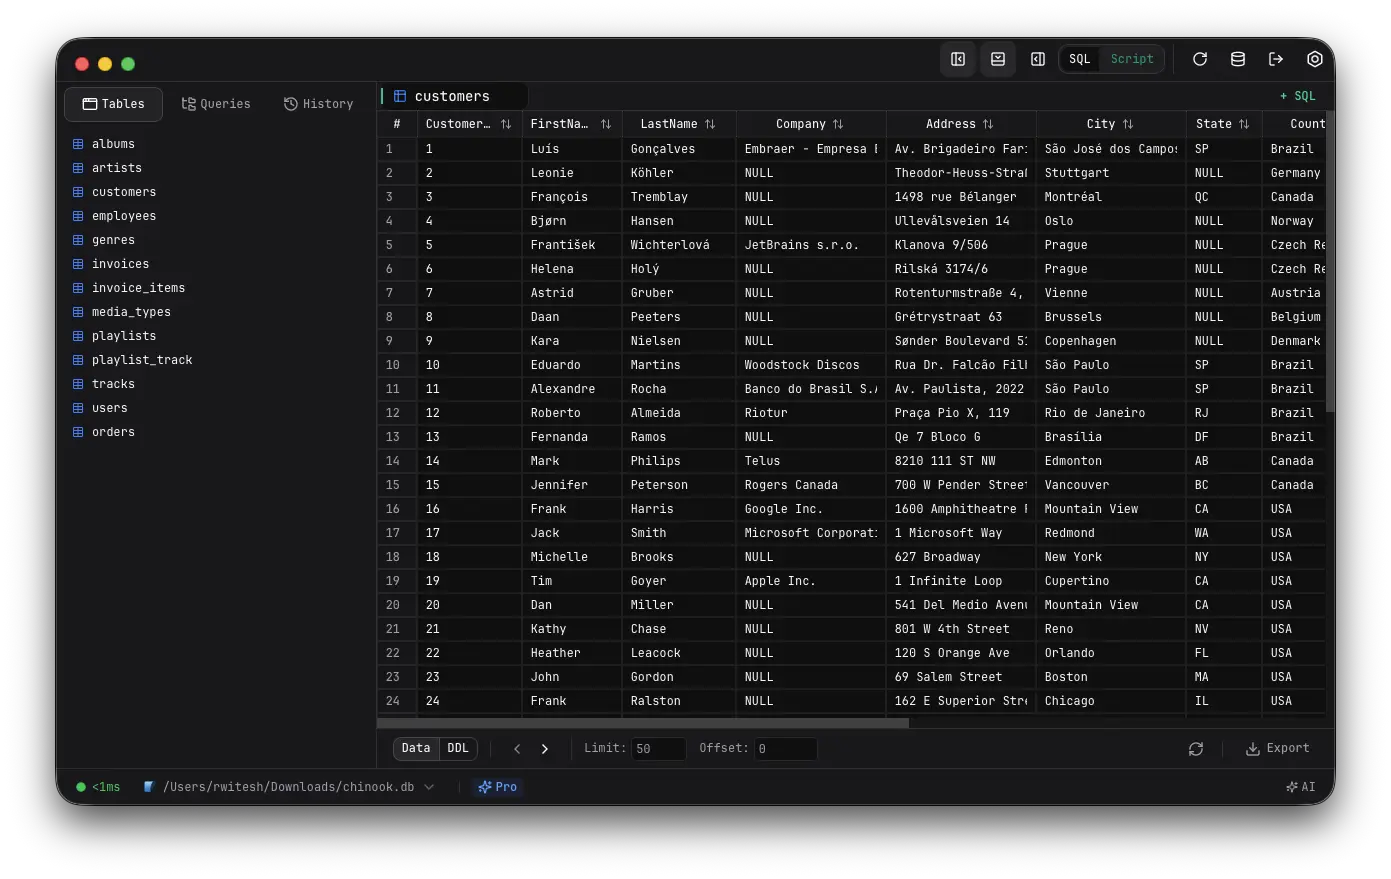
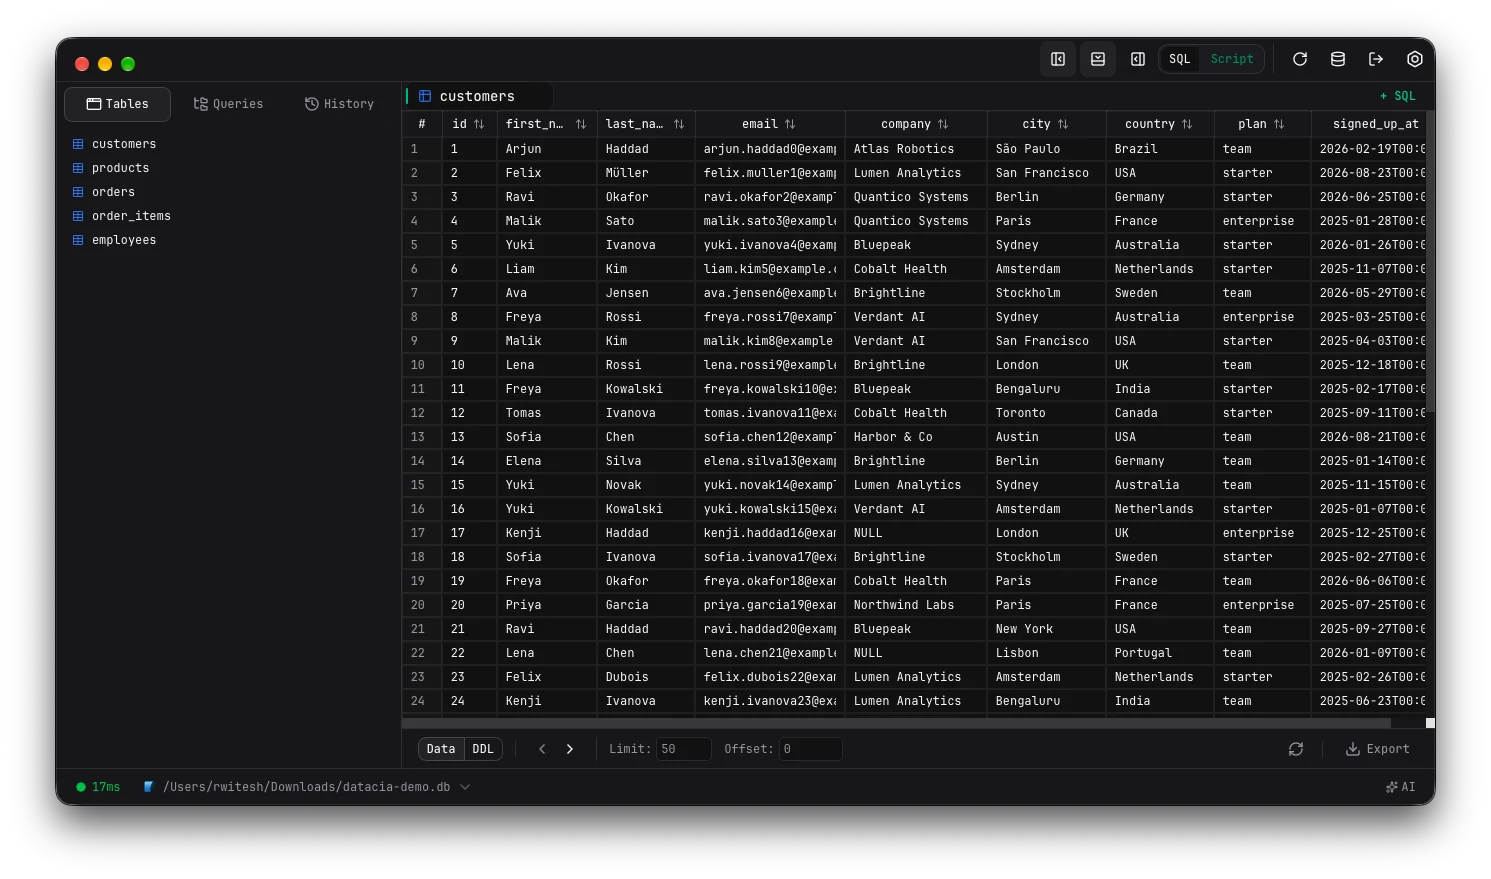
Use demo-database screenshots and tidy code
- Hero: matching dark and light captures with an animated appearance switch
- Feature story: full-window editor and JSON row-inspector shots, plus a
  dark/light pair for the copy and export menu; wider visual column
- Remove the unused Button component, link variant and unused site links
- Share a typed ReleaseStatus; enable noUnusedLocals/Parameters

diff --git a/src/components/home/feature-story.tsx b/src/components/home/feature-story.tsx
@@ -1,7 +1,9 @@
 import { useEffect, useRef, useState, type ReactNode } from "react";
 import { AnimatePresence, motion, useInView } from "motion/react";
 import { Sparkles } from "lucide-react";
+import exportLightImg from "@/assets/export-light.webp";
 import exportImg from "@/assets/export.webp";
+import jsonImg from "@/assets/json.webp";
 import queryImg from "@/assets/query.webp";
 import scriptImg from "@/assets/script.webp";
 import { EASE_APPLE, Reveal } from "@/components/motion/reveal";
@@ -9,10 +11,51 @@ import { Container } from "@/components/ui/container";
 import { SectionHeading } from "@/components/ui/section-heading";
 import { cn } from "@/lib/utils";
 
-function Screenshot({ src, alt, width, height }: { src: string; alt: string; width: number; height: number }) {
+interface ShotProps {
+  src: string;
+  alt: string;
+  width: number;
+  height: number;
+  className?: string;
+}
+
+/** A full macOS window capture; it already carries its own frame and shadow. */
+function WindowShot({ src, alt, width, height }: ShotProps) {
+  return <img src={src} alt={alt} width={width} height={height} className="w-full" loading="lazy" />;
+}
+
+/** A cropped panel, framed to sit alongside the window captures. */
+function PanelShot({ src, alt, width, height, className }: ShotProps) {
   return (
-    <div className="rounded-2xl border border-line-strong bg-surface p-1.5 shadow-[0_30px_80px_-30px_rgba(0,0,0,0.8)]">
+    <div
+      className={cn(
+        "rounded-2xl border border-line-strong bg-surface p-1.5 shadow-[0_30px_80px_-30px_rgba(0,0,0,0.8)]",
+        className,
+      )}
+    >
       <img src={src} alt={alt} width={width} height={height} className="w-full rounded-[12px]" loading="lazy" />
+    </div>
+  );
+}
+
+/** The export menu in both themes, stacked so the pair overlaps diagonally. */
+function ExportPair() {
+  return (
+    <div className="mx-auto grid max-w-2xl">
+      <PanelShot
+        src={exportLightImg}
+        alt="Export menu in light mode"
+        width={593}
+        height={361}
+        className="w-4/5 self-start justify-self-end [grid-area:1/1]"
+      />
+      <PanelShot
+        src={exportImg}
+        alt="Selected rows with the copy and export menu open in dark mode"
+        width={593}
+        height={361}
+        className="mt-[22%] w-4/5 self-start justify-self-start [grid-area:1/1]"
+      />
     </div>
   );
 }
@@ -53,19 +96,32 @@ const CHAPTERS: Chapter[] = [
     eyebrow: "SQL editor",
     title: "Write. Format. Run.",
     body: "Syntax highlighting, autocomplete that knows your tables, one-key formatting and instant execution. Everything stays out of your way until you need it.",
-    visual: <Screenshot src={queryImg} alt="SQL editor with a formatted query" width={599} height={339} />,
+    visual: (
+      <WindowShot
+        src={queryImg}
+        alt="SQL editor with a JOIN query and its results below"
+        width={1391}
+        height={879}
+      />
+    ),
   },
   {
     eyebrow: "Script mode",
     title: "Whole migrations, one click.",
     body: "Break a script into blocks and run them in order. Each block reports its own status and timing, so you see exactly where things stand.",
-    visual: <Screenshot src={scriptImg} alt="Script mode running three CREATE TABLE blocks" width={961} height={644} />,
+    visual: <PanelShot src={scriptImg} alt="Script mode running three CREATE TABLE blocks" width={961} height={644} />,
   },
   {
     eyebrow: "Results & export",
     title: "Your data, any shape.",
     body: "A fast grid with sorting, resizing and cell selection. Copy or export the selection as JSON, CSV or a crisp PNG for your next doc.",
-    visual: <Screenshot src={exportImg} alt="Result grid with the export menu open" width={595} height={374} />,
+    visual: <ExportPair />,
+  },
+  {
+    eyebrow: "Row inspector",
+    title: "See rows as JSON.",
+    body: "Select any cells and a side panel shows them as clean JSON, ready to copy into a test, a ticket or an API call.",
+    visual: <WindowShot src={jsonImg} alt="Orders table with selected rows shown as JSON in a side panel" width={1491} height={879} />,
   },
   {
     eyebrow: "AI assistant",
@@ -106,7 +162,7 @@ export function FeatureStory() {
 
   return (
     <section id="features" className="pt-24 pb-8 sm:pt-32">
-      <Container>
+      <Container width="wide">
         <SectionHeading
           eyebrow="Features"
           title={
@@ -119,7 +175,7 @@ export function FeatureStory() {
           description="Every feature that used to sit behind a paywall is now included for everyone."
         />
 
-        <div className="mt-16 grid gap-x-16 lg:mt-8 lg:grid-cols-[1fr_1.15fr]">
+        <div className="mt-16 grid gap-x-12 lg:mt-8 lg:grid-cols-[minmax(0,0.75fr)_minmax(0,1.5fr)]">
           <div>
             {CHAPTERS.map((chapter, i) => (
               <ChapterText key={chapter.title} chapter={chapter} index={i} onActive={setActive} />

diff --git a/src/components/home/hero.tsx b/src/components/home/hero.tsx
@@ -1,6 +1,7 @@
-import { useRef } from "react";
+import { useRef, useState } from "react";
 import { motion, useScroll, useSpring, useTransform } from "motion/react";
 import { ArrowUpRight } from "lucide-react";
+import appLightImg from "@/assets/app-light.webp";
 import appImg from "@/assets/app.webp";
 import { DownloadButton } from "@/components/download/download-button";
 import { GitHubIcon } from "@/components/icons/brand";
@@ -30,9 +31,46 @@ function ReleasePill() {
   );
 }
 
-/** App screenshot that tilts up from a perspective and settles flat as you scroll. */
+type Appearance = "dark" | "light";
+
+const SHOWCASE: Record<Appearance, { src: string; label: string }> = {
+  dark: { src: appImg, label: "Dark" },
+  light: { src: appLightImg, label: "Light" },
+};
+
+function AppearanceSwitch({ value, onChange }: { value: Appearance; onChange: (next: Appearance) => void }) {
+  return (
+    <div role="radiogroup" aria-label="App appearance" className="inline-flex rounded-full border border-line bg-surface p-1">
+      {(Object.keys(SHOWCASE) as Appearance[]).map((key) => (
+        <button
+          key={key}
+          type="button"
+          role="radio"
+          aria-checked={value === key}
+          onClick={() => onChange(key)}
+          className="relative rounded-full px-4 py-1.5 text-[13px] font-medium text-muted-foreground transition-colors aria-checked:text-background"
+        >
+          {value === key && (
+            <motion.span
+              layoutId="appearance-pill"
+              transition={{ type: "spring", stiffness: 500, damping: 40 }}
+              className="absolute inset-0 rounded-full bg-foreground"
+            />
+          )}
+          <span className="relative">{SHOWCASE[key].label}</span>
+        </button>
+      ))}
+    </div>
+  );
+}
+
+/**
+ * App screenshot that tilts up from a perspective and settles flat as you
+ * scroll, with a switch to preview the light and dark themes.
+ */
 function HeroShowcase() {
   const ref = useRef<HTMLDivElement>(null);
+  const [appearance, setAppearance] = useState<Appearance>("dark");
   const { scrollYProgress } = useScroll({ target: ref, offset: ["start end", "center center"] });
   const progress = useSpring(scrollYProgress, { stiffness: 120, damping: 30, mass: 0.4 });
 
@@ -52,14 +90,26 @@ function HeroShowcase() {
         animate={{ opacity: 1, y: 0 }}
         transition={{ duration: 1.4, delay: 0.5, ease: EASE_APPLE }}
       >
-        <motion.img
-          src={appImg}
-          alt="DataCia showing the customers table of a SQLite database"
-          width={1391}
-          height={879}
-          style={{ rotateX, scale, transformOrigin: "center top" }}
-          className="w-full drop-shadow-[0_40px_80px_rgba(0,0,0,0.6)]"
-        />
+        {/* Both themes share one grid cell so switching never shifts layout. */}
+        <motion.div style={{ rotateX, scale, transformOrigin: "center top" }} className="grid">
+          {(Object.keys(SHOWCASE) as Appearance[]).map((key) => (
+            <motion.img
+              key={key}
+              src={SHOWCASE[key].src}
+              alt={`DataCia in ${key} mode showing the customers table of a SQLite database`}
+              aria-hidden={appearance !== key}
+              width={1491}
+              height={879}
+              initial={false}
+              animate={{ opacity: appearance === key ? 1 : 0 }}
+              transition={{ duration: 0.6, ease: EASE_APPLE }}
+              className="w-full [grid-area:1/1]"
+            />
+          ))}
+        </motion.div>
+        <div className="mt-6 flex justify-center">
+          <AppearanceSwitch value={appearance} onChange={setAppearance} />
+        </div>
       </motion.div>
     </div>
   );

diff --git a/src/components/ui/button.tsx b/src/components/ui/button.tsx
@@ -1,10 +1,8 @@
-import type { ButtonHTMLAttributes } from "react";
 import { cva, type VariantProps } from "class-variance-authority";
-import { cn } from "@/lib/utils";
 
 /**
- * Button styles shared by <button>, <a> and router <Link>. Use `buttonVariants`
- * directly on anchors so navigation stays semantic.
+ * Button styles for <a>, router <Link> and <button>. Apply `buttonVariants` to
+ * the element directly so navigation stays semantic.
  */
 export const buttonVariants = cva(
   [
@@ -21,7 +19,6 @@ export const buttonVariants = cva(
         contrast: "bg-foreground text-background hover:bg-foreground/85",
         secondary:
           "border border-line-strong bg-foreground/[0.04] text-foreground hover:bg-foreground/[0.09]",
-        link: "rounded-none px-0 text-accent hover:underline underline-offset-4",
       },
       size: {
         sm: "h-8 px-3.5 text-[13px]",
@@ -29,19 +26,8 @@ export const buttonVariants = cva(
         lg: "h-12 px-7 text-[15px]",
       },
     },
-    compoundVariants: [{ variant: "link", className: "h-auto px-0" }],
     defaultVariants: { variant: "primary", size: "md" },
   },
 );
 
 export type ButtonVariantProps = VariantProps<typeof buttonVariants>;
-
-export function Button({
-  className,
-  variant,
-  size,
-  type = "button",
-  ...props
-}: ButtonHTMLAttributes<HTMLButtonElement> & ButtonVariantProps) {
-  return <button type={type} className={cn(buttonVariants({ variant, size }), className)} {...props} />;
-}

diff --git a/src/pages/Download.tsx b/src/pages/Download.tsx
@@ -6,7 +6,7 @@ import { PLATFORM_ICON, type DownloadRouteState } from "@/components/download/do
 import { EASE_APPLE, Reveal } from "@/components/motion/reveal";
 import { buttonVariants } from "@/components/ui/button";
 import { Container } from "@/components/ui/container";
-import { useLatestRelease } from "@/hooks/useLatestRelease";
+import { useLatestRelease, type ReleaseStatus } from "@/hooks/useLatestRelease";
 import { usePlatform } from "@/hooks/usePlatform";
 import { PLATFORM_LABEL, PLATFORMS, type Platform } from "@/lib/platform";
 import { formatBytes, formatReleaseDate, type LatestRelease } from "@/lib/releases";
@@ -53,7 +53,7 @@ function PlatformCard({
 }: {
   platform: Platform;
   release: LatestRelease | null;
-  status: "loading" | "ready" | "error";
+  status: ReleaseStatus;
   recommended: boolean;
 }) {
   const Icon = PLATFORM_ICON[platform];
@@ -92,7 +92,15 @@ function PlatformCard({
   );
 }
 
-function StartedNotice({ platform, release, status }: { platform: Platform; release: LatestRelease | null; status: string }) {
+function StartedNotice({
+  platform,
+  release,
+  status,
+}: {
+  platform: Platform;
+  release: LatestRelease | null;
+  status: ReleaseStatus;
+}) {
   const asset = release?.installers[platform];
   const failed = status === "error" || (status === "ready" && !asset);
 

diff --git a/src/lib/site.ts b/src/lib/site.ts
@@ -7,11 +7,8 @@ export const LINKS = {
   repo: REPO_URL,
   releases: `${REPO_URL}/releases`,
   latestRelease: `${REPO_URL}/releases/latest`,
-  issues: `${REPO_URL}/issues`,
   newIssue: `${REPO_URL}/issues/new`,
-  pulls: `${REPO_URL}/pulls`,
   development: `${REPO_URL}/blob/main/DEVELOPMENT.md`,
 } as const;
 
 export const SUPPORT_EMAIL = "rwiteshbera@gmail.com";
-export const SITE_URL = "https://www.datacia.app";

diff --git a/src/hooks/useLatestRelease.ts b/src/hooks/useLatestRelease.ts
@@ -1,6 +1,8 @@
 import { useEffect, useState } from "react";
 import { fetchLatestRelease, type LatestRelease } from "@/lib/releases";
 
+export type ReleaseStatus = "loading" | "ready" | "error";
+
 type State =
   | { status: "loading"; release: null }
   | { status: "ready"; release: LatestRelease }
